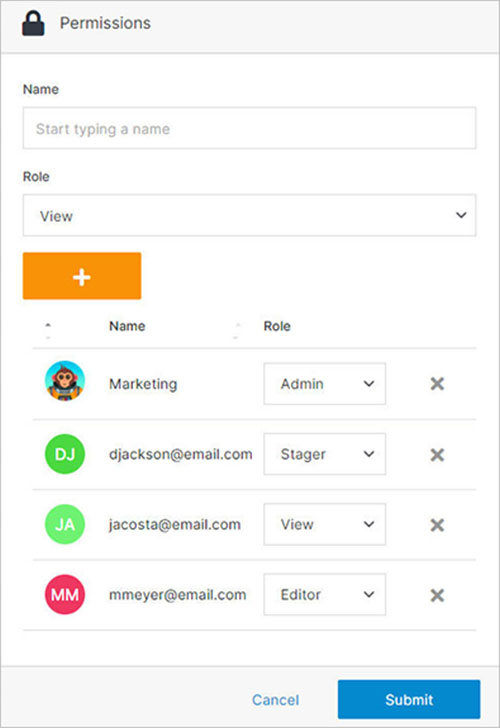
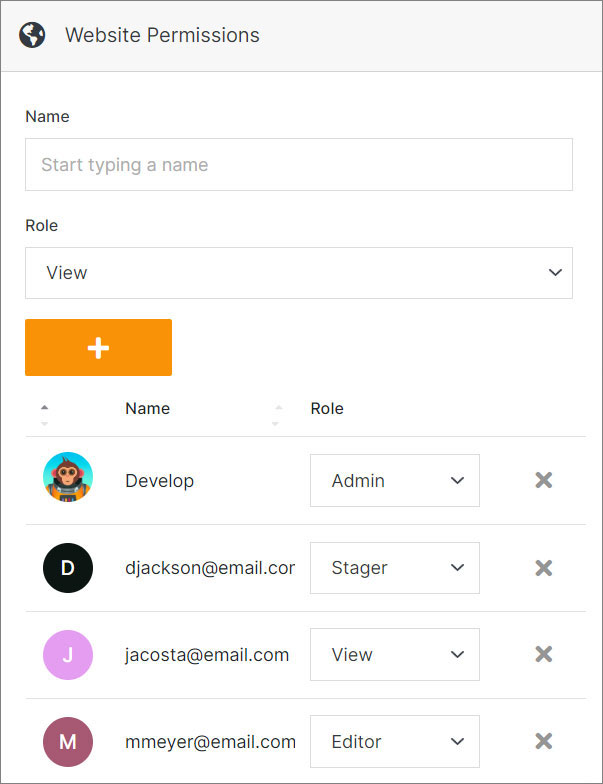
Update website permissions image and table.

diff --git a/src/Workspace/Websites/index.md b/src/Workspace/Websites/index.md
@@ -14,18 +14,20 @@ Use the search field in the upper right corner to locate or filter specific webs
 :--- | ---
 <a href="/workspace/websites/add-website/">Add Website</a> | Create a new website in your CMS deployment.
 
+You can access a website by clicking either the image or its name listed in the table.
+
 ## Permissions
 
 Click on any of the members next to a website name to add or remove website members and manage their roles. 
 
-<img src="../../../images/permissions/general-permissions.jpg" alt="Permissions modal view" style="width: 420px;"></a>
+<p><img src="../../../images/permissions/general-permissions.jpg" alt="Permissions modal view" style="width: 420px;"></p>
 
 **Name** | **Description** 
 :--- | ---
-Name | Enter the name of the member or group you wish to add to your website. Then, click on the **Plus** button to add it.
-Role | Assign a View, Stage, Editor, or Admin role via the dropdown menu to the right of each member's name.
-Delete | Click the “x” button to remove a member from a website.
-Confirm | Once you have completed all the fields, click **Submit** to apply your changes.
+Name | Enter the name of an existing member or group you wish to add to your website. Then, click on the <br>**Plus** button to add it to the permissions table.
+Role | Assign a View, Stage, Editor, or Admin role via the dropdown menu.
+Remove | Click the “x” button to remove a member from a website.
+Submit | Once you have completed all the fields, click **Submit** to apply your changes.
 
 !!! Note:
 A website member can be assigned one of four roles:
